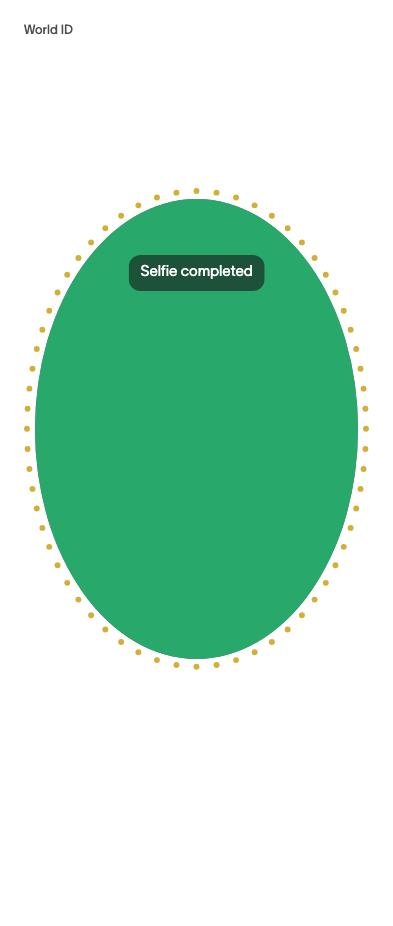
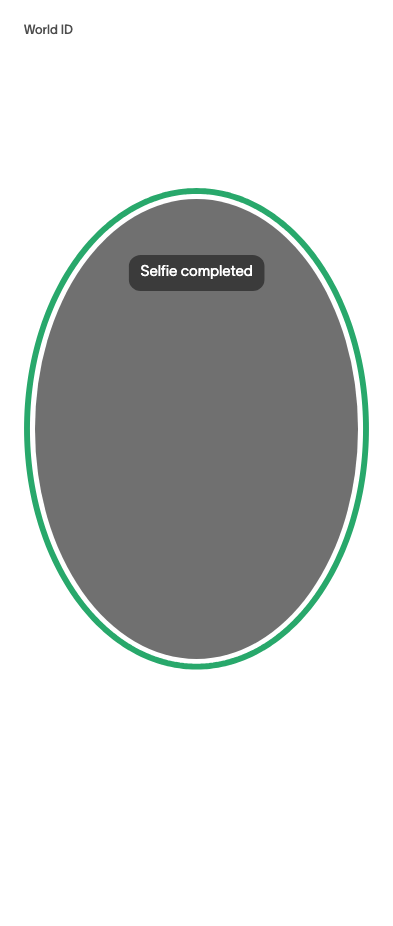
Join completion dots into a green border and hold for half a second

diff --git a/tests/integration/browser/authenticator.browser.spec.ts b/tests/integration/browser/authenticator.browser.spec.ts
@@ -50,9 +50,9 @@ if (!("bun" in process.versions)) {
     await page.screenshot({ path: `test-results/screenshots/${info.project.name}-public-camera-failure.png`, fullPage: true });
     await page.evaluate(() => { (window as typeof window & { cameraTest: { deny: boolean } }).cameraTest.deny = false; });
     // Record completion atomically instead of racing it with separate browser round trips.
-    const captureCompleted = page.evaluate(() => new Promise(resolve => {
+    const captureBorder = page.evaluate(() => new Promise(resolve => {
       const observer = new MutationObserver(() => {
-        if (document.querySelector('.completion-sequence')?.getAttribute("data-stage") !== "capture-complete") return;
+        if (document.querySelector('.completion-sequence')?.getAttribute("data-stage") !== "capture-border") return;
         observer.disconnect();
         resolve({
           goldDots: document.querySelectorAll('.selfie-design-ring circle[data-filled="true"]').length,
@@ -60,6 +60,7 @@ if (!("bun" in process.versions)) {
           checkmark: !!document.querySelector('.selfie-complete'),
           live: !!document.querySelector('video')?.srcObject,
           title: document.querySelector('.selfie-guidance h2')?.textContent,
+          animationDuration: getComputedStyle(document.querySelector('.selfie-completion-border')!).animationDuration,
         });
       });
       observer.observe(document.body, { attributes: true, childList: true, subtree: true });
@@ -71,7 +72,7 @@ if (!("bun" in process.versions)) {
     expect(await goldDots.count()).toBeLessThan(64);
     await expect(goldDots.first()).toHaveCSS("fill", "rgb(212, 175, 55)");
     await page.screenshot({ path: `test-results/screenshots/${info.project.name}-public-hold-progress.png`, fullPage: true });
-    expect(await captureCompleted).toEqual({ goldDots: 64, still: false, checkmark: false, live: true, title: "Selfie completed" });
+    expect(await captureBorder).toEqual({ goldDots: 64, still: false, checkmark: false, live: true, title: "Selfie completed", animationDuration: "0.3s" });
     await expect(page.getByRole("heading", { name: "Selfie captured" })).toBeVisible();
     await expect(page.getByRole("button")).toHaveCount(0);
     await expect(page.getByRole("link")).toHaveCount(0);
@@ -115,17 +116,14 @@ if (!("bun" in process.versions)) {
         await expect(page.getByRole("heading", { name: "Selfie completed" })).toBeVisible();
         await expect(page.locator(".selfie-camera-stage")).toHaveCSS("opacity", "1");
         await expect(page.locator(".selfie-camera-stage")).toHaveCSS("transform", "none");
-        await expect(page.locator(".selfie-success-fill")).toHaveCSS("background-color", "rgb(40, 168, 107)");
-        if (reducedMotion === "reduce") {
-          await expect(page.locator(".selfie-success-fill")).toHaveCSS("animation-name", "none");
-          await expect(page.locator(".selfie-success-fill")).toHaveCSS("opacity", "1");
-        } else {
-          await expect(page.locator(".selfie-success-fill")).toHaveCSS("animation-duration", "0.4s");
-          // Inspect the final green frame while the stage clock remains paused.
-          await page.locator(".selfie-success-fill").evaluate(element => element.getAnimations().forEach(animation => animation.finish()));
-          await expect(page.locator(".selfie-success-fill")).toHaveCSS("opacity", "1");
-          await page.screenshot({ path: `test-results/screenshots/${info.project.name}-public-green-completion.png`, fullPage: true });
-        }
+        const border = page.locator(".selfie-completion-border");
+        await expect(page.locator(".selfie-success-fill")).toHaveCount(0);
+        await expect(border).toHaveCSS("fill", "none");
+        await expect(border).toHaveCSS("stroke", "rgb(40, 168, 107)");
+        await expect(border).toHaveCSS("stroke-dasharray", "1px, 0px");
+        await expect(page.locator(".selfie-design-ring circle").first()).toBeHidden();
+        await expect(border).toHaveCSS("animation-name", "none");
+        await page.screenshot({ path: `test-results/screenshots/${info.project.name}-public-green-completion.png`, fullPage: true });
         expect(await page.evaluate(() => (window as typeof window & { cameraTest: { stopped: number } }).cameraTest.stopped)).toBeGreaterThan(0);
         await expect(page.getByRole("button")).toHaveCount(0);
         await hideAtStage(page, "confirmation");
@@ -133,7 +131,7 @@ if (!("bun" in process.versions)) {
           Object.defineProperty(document, "hidden", { configurable: true, value: false });
           document.dispatchEvent(new Event("visibilitychange"));
         });
-        await page.clock.runFor(850);
+        await page.clock.runFor(550);
         await expect(page.getByRole("heading", { name: "Selfie captured" })).toBeVisible();
         await expect(page.getByAltText("Your captured selfie")).toHaveCount(0);
         expect(await page.evaluate(async url => {

diff --git a/web/PublicRequestFlow.tsx b/web/PublicRequestFlow.tsx
@@ -10,9 +10,10 @@ import { abortable } from "./lib/async";
 import { AuthenticatorAccess } from "./components/AuthenticatorAccess";
 
 const SelfieCheck = lazy(() => import("./components/SelfieCheck"));
-type Flow = { stage: "intro" | "home" | "access" | "capture" | "capture-complete" | "confirmation" | "confirmation-exit" | "save" | "finished" | "cancelled" | "expired"; returnUrl?: string; saved?: boolean };
+type Flow = { stage: "intro" | "home" | "access" | "capture" | "capture-border" | "capture-complete" | "confirmation" | "confirmation-exit" | "save" | "finished" | "cancelled" | "expired"; returnUrl?: string; saved?: boolean };
 const COMPLETION_STEPS = {
-  "capture-complete": { duration: 800, next: "confirmation", motion: false },
+  "capture-border": { duration: 300, next: "capture-complete", motion: true },
+  "capture-complete": { duration: 500, next: "confirmation", motion: false },
   confirmation: { duration: 1500, next: "confirmation-exit", motion: false },
   "confirmation-exit": { duration: 250, next: "save", motion: true },
 } as const;
@@ -100,7 +101,7 @@ export function PublicRequestFlow({ incoming, requested, loading, failed, expire
       try { checkExpiry(incoming.proof); } catch { finish("expired"); return; }
     }
     // Local capture supplies the completion signal until real enrollment is connected.
-    setFlow({ stage: "capture-complete", returnUrl: incoming?.returnUrl });
+    setFlow({ stage: "capture-border", returnUrl: incoming?.returnUrl });
     onDispose();
   };
   const finishDecision = (saved: boolean) => {
@@ -160,7 +161,7 @@ export function PublicRequestFlow({ incoming, requested, loading, failed, expire
     <RequestCompletion state="expired" returnUrl={incoming?.returnUrl} />
   </div>;
 
-  if (flow.stage === "capture" || flow.stage === "capture-complete") return <div className="public-request-flow public-request-flow--capture completion-sequence" data-stage={flow.stage} data-paused={paused}>
+  if (flow.stage === "capture" || flow.stage === "capture-border" || flow.stage === "capture-complete") return <div className="public-request-flow public-request-flow--capture completion-sequence" data-stage={flow.stage} data-paused={paused}>
     <Suspense fallback={<p role="status">Opening Selfie Check…</p>}>
       <SelfieCheck onClose={() => void cancel()} backLabel="Cancel check" onComplete={complete} />
     </Suspense>

diff --git a/web/components/SelfieCheck.css b/web/components/SelfieCheck.css
@@ -79,10 +79,14 @@
   .public-request-flow .selfie-content { padding-top: 32px; }
 }
 
-/* Complete in the same aperture, then cut to the sigil without moving the frame. */
-.selfie-success-fill { position: absolute; inset: 0; background: #28a86b; opacity: 0; pointer-events: none; }
-.selfie-check[data-transitioning="true"] .selfie-success-fill { opacity: 1; }
+/* Stretch the existing dots along their contour until they join into a green border. */
+.selfie-completion-border { display: none; fill: none; stroke: #28a86b; stroke-width: 5.89732; stroke-linecap: round; stroke-linejoin: round; stroke-dasharray: 1 0; stroke-dashoffset: .5; }
+.selfie-check[data-transitioning="true"] .selfie-design-ring circle { visibility: hidden; }
+.selfie-check[data-transitioning="true"] .selfie-completion-border { display: block; }
 @media (prefers-reduced-motion: no-preference) {
-  .selfie-check[data-transitioning="true"] .selfie-success-fill { animation: selfie-fill-success 400ms ease-in-out both; }
+  .completion-sequence[data-stage="capture-border"] .selfie-completion-border { animation: selfie-border-complete 300ms ease-in-out both; }
 }
-@keyframes selfie-fill-success { from { opacity: 0; } to { opacity: 1; } }
+@keyframes selfie-border-complete {
+  from { stroke: #d4af37; stroke-dasharray: 0 1; stroke-dashoffset: 0; }
+  to { stroke: #28a86b; stroke-dasharray: 1 0; stroke-dashoffset: .5; }
+}

diff --git a/web/components/SelfieCheck.tsx b/web/components/SelfieCheck.tsx
@@ -104,7 +104,6 @@ export default function SelfieCheck({ onClose, onComplete, backLabel, diagnostic
           <video ref={video} autoPlay playsInline muted aria-label="Your camera preview" />
           {image && <img className="selfie-photo" src={image} alt="Your captured selfie" />}
           <div className="selfie-placeholder" aria-hidden="true"><svg viewBox="0 0 140 180" fill="none"><path d="M45 67c0-23 9-37 25-37s25 14 25 37c0 24-10 41-25 41S45 91 45 67Z" stroke="currentColor" strokeWidth="1.5" /><path d="M19 161v-12c0-18 24-31 51-31s51 13 51 31v12M60 73h1m18 0h1M62 89c5 4 11 4 16 0" stroke="currentColor" strokeWidth="1.5" strokeLinecap="round" /></svg></div>
-          <div className="selfie-success-fill" aria-hidden="true" />
           {complete && !transitioning && <div className="selfie-complete" aria-hidden="true"><svg viewBox="0 0 48 48" fill="none"><path d="m13 24 7 7 15-15" stroke="currentColor" strokeWidth="2.5" strokeLinecap="round" strokeLinejoin="round" /></svg></div>}
         </div>
         <svg className="selfie-camera-ring" viewBox="0 0 280 350" fill="none" aria-hidden="true"><ellipse className="selfie-ring-track" cx="140" cy="175" rx="133" ry="168" /><path className="selfie-ring-progress" d="M140 7a133 168 0 1 1 0 336a133 168 0 1 1 0-336" pathLength="100" style={{ strokeDashoffset: 100 - state.progress * 100 }} /></svg>

diff --git a/web/components/CaptureProgressRing.tsx b/web/components/CaptureProgressRing.tsx
@@ -32,9 +32,14 @@ const DOTS = Array.from({ length: DOT_COUNT }, (_, index) => {
   return { x: start.x + (end.x - start.x) * fraction, y: start.y + (end.y - start.y) * fraction };
 });
 
+// The completion stroke follows the same contour as the dots.
+const BORDER_PATH = samples.filter((_, index) => index % 4 === 0)
+  .map((point, index) => `${index ? "L" : "M"}${point.x.toFixed(3)} ${point.y.toFixed(3)}`).join(" ") + " Z";
+
 export function CaptureProgressRing({ progress }: { progress: number }) {
   const filled = Math.floor(Math.max(0, Math.min(1, progress)) * DOT_COUNT);
   return <svg className="selfie-design-ring" viewBox={`0 0 ${WIDTH} ${HEIGHT}`} fill="none" aria-hidden="true">
     {DOTS.map(({ x, y }, index) => <circle key={index} cx={x} cy={y} r="2.94866" data-filled={index < filled} />)}
+    <path className="selfie-completion-border" d={BORDER_PATH} pathLength={DOT_COUNT} />
   </svg>;
 }

diff --git a/web/README.md b/web/README.md
@@ -20,11 +20,12 @@ the camera or creates an account.
 
 The public flow uses local capture as its completion signal; it does not send a
 verified IDKit response. The oval’s 64 dots fill gold clockwise during a 1.2-second
-continuous hold and reset when alignment is lost. Once captured, the same oval
-fills green over 400 ms and the guidance changes to “Selfie completed.” At 800 ms
-it cuts directly to the sigil confirmation, with no screen fade or scaling.
+continuous hold and reset when alignment is lost. Once captured, the dots stretch
+into a continuous green border over 300 ms while the face stays visible and the
+guidance changes to “Selfie completed.” The completed border holds for 500 ms,
+then cuts directly to the sigil confirmation, with no screen fade or scaling.
 The camera stops at that cut, or immediately when the tab is hidden or closed.
-Reduced motion shows the green oval immediately with the same reading time.
+Reduced motion shows the green border immediately with the same 500 ms hold.
 The button-free sigil confirmation holds for
 1.5 seconds, then automatically opens the one-time **Save with passkey / Not now**
 decision. These timed stages pause while the tab is hidden and stop on exit;
